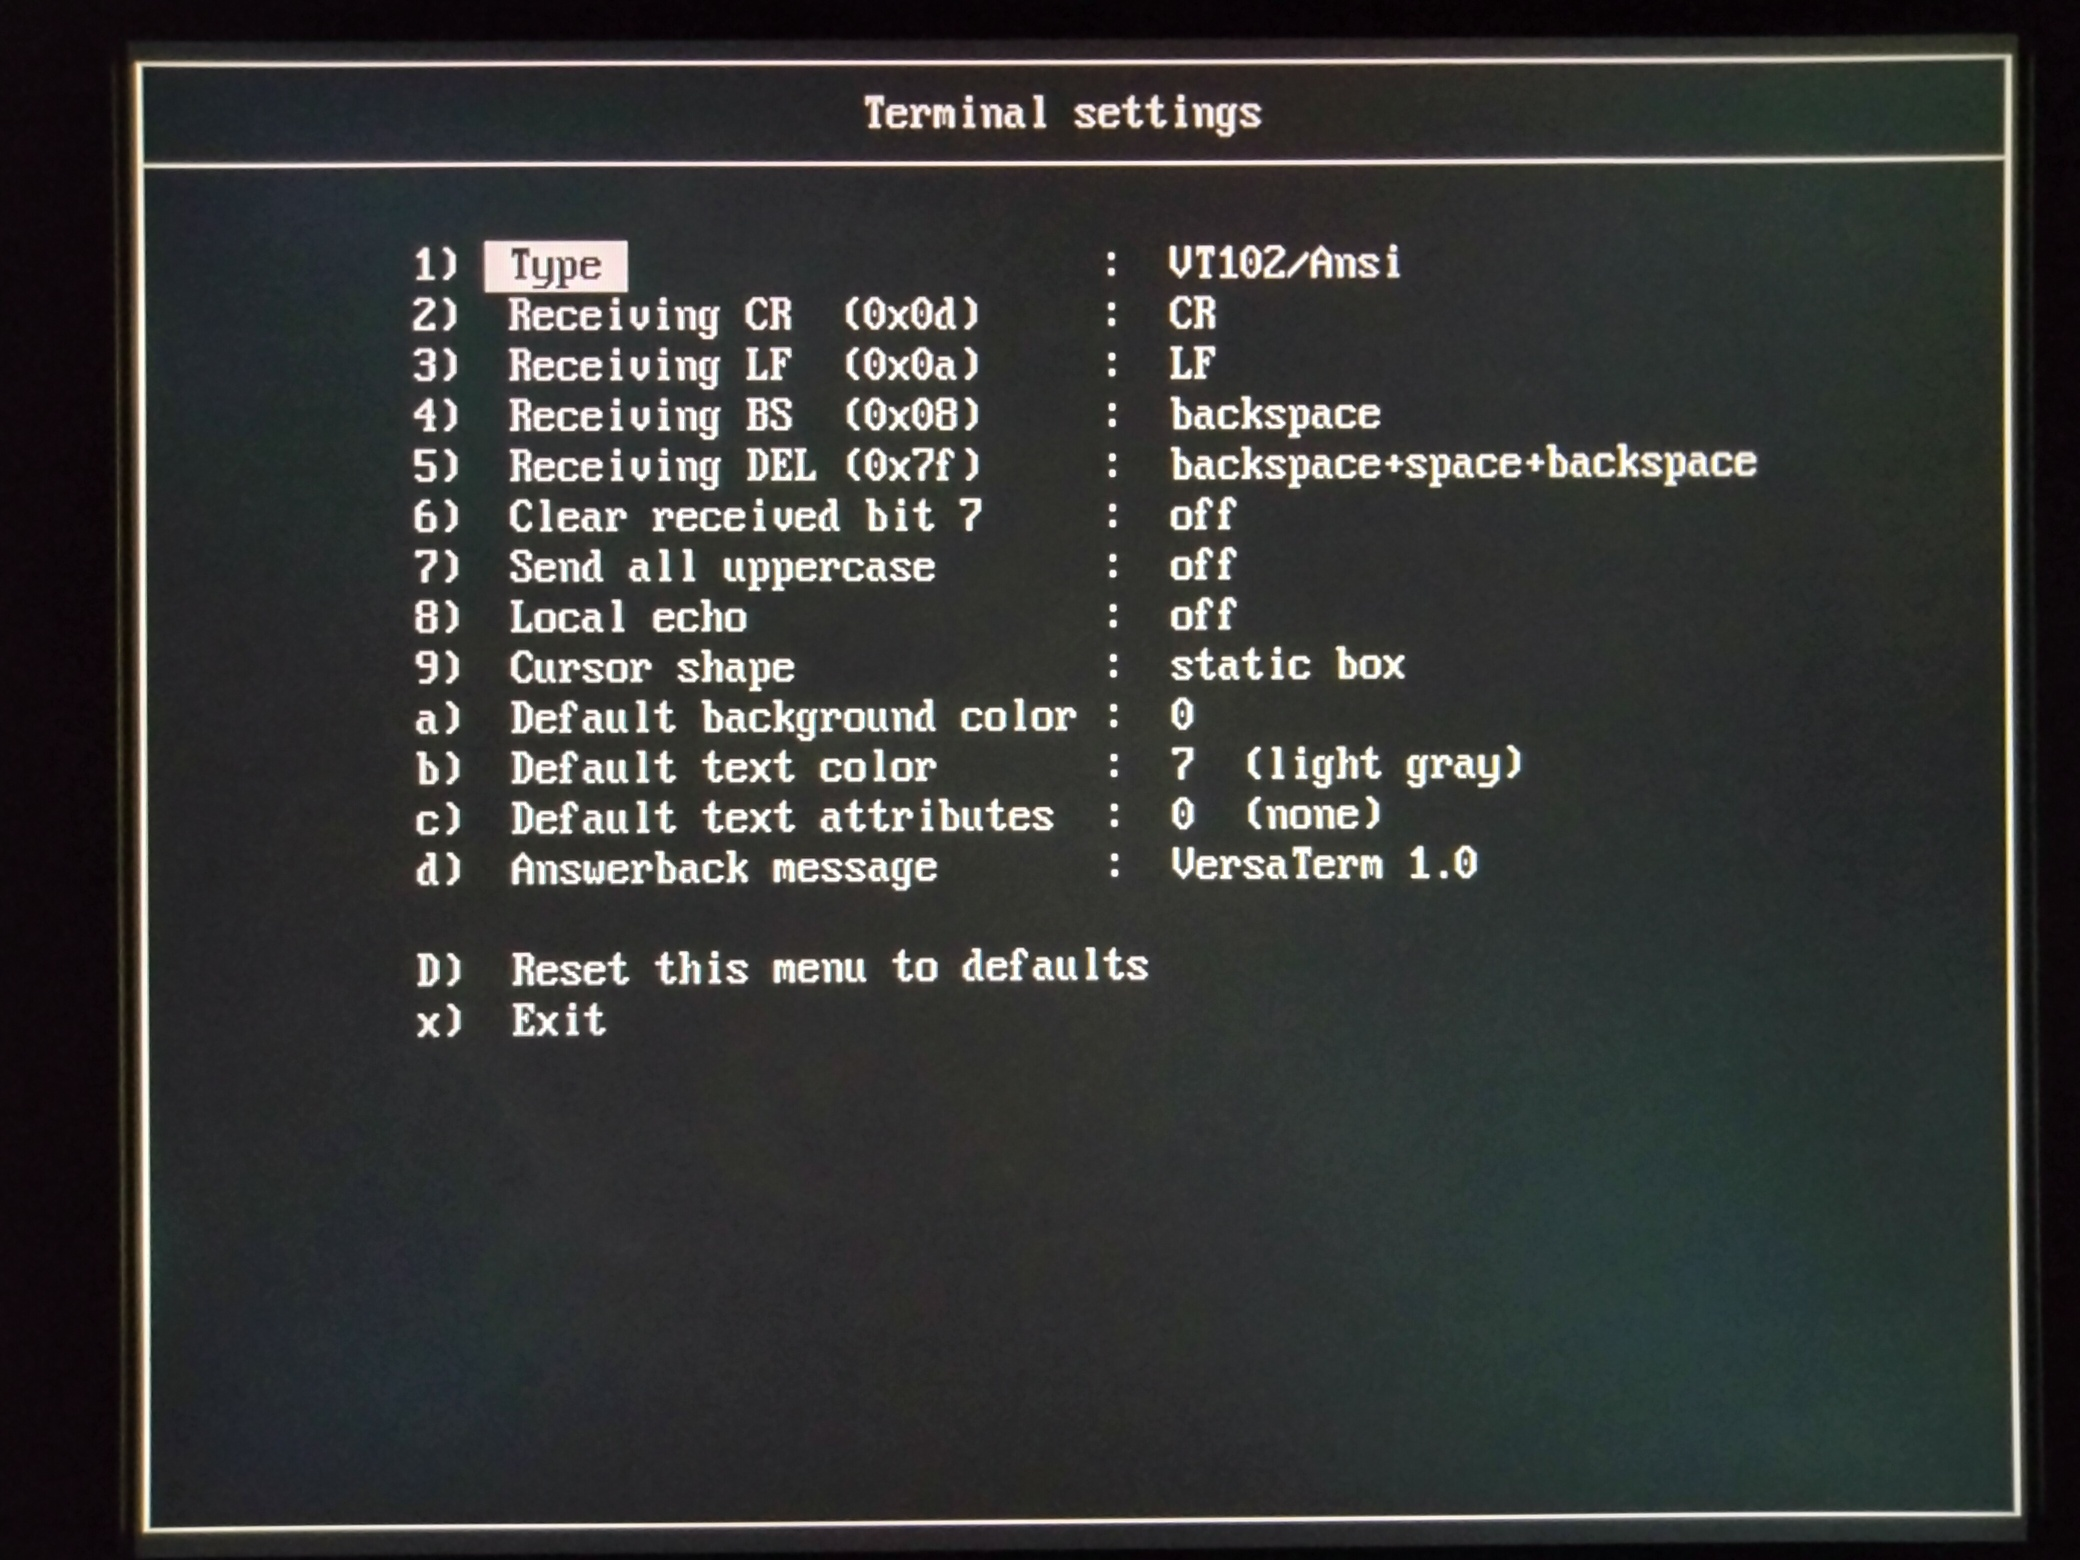
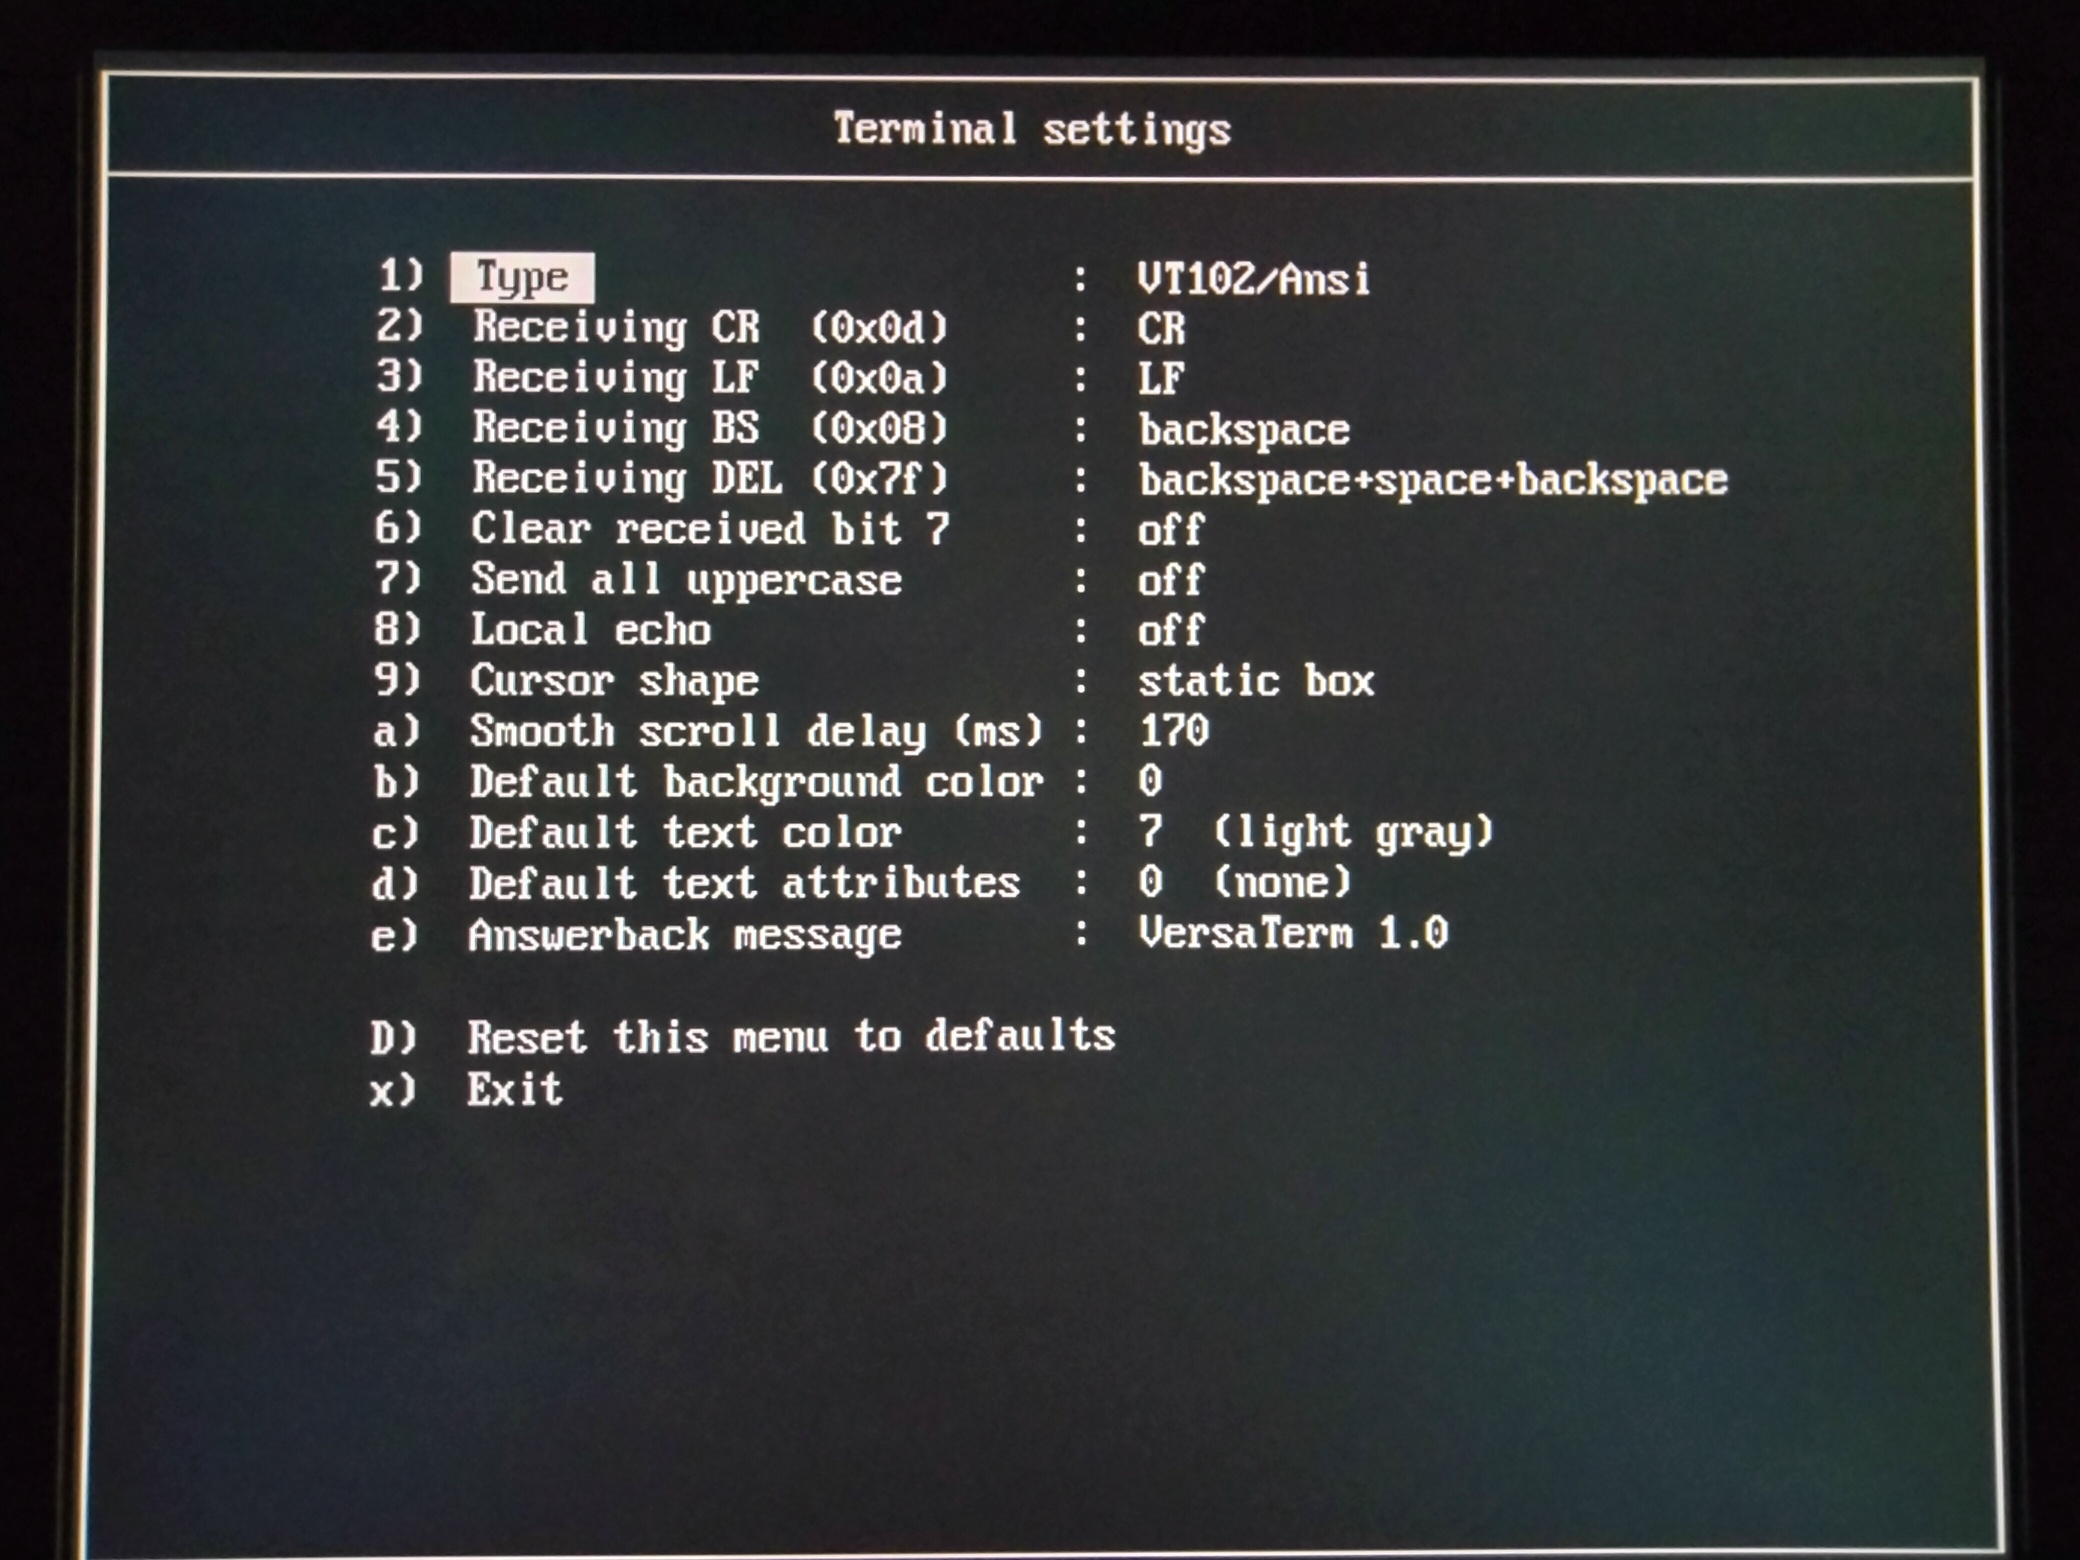
Added setting for smooth scroll delay

Changed region(s): [[0.1562, 0.1538, 0.8438, 0.7077], [0.0312, 0.0, 1.0, 1.0]]

diff --git a/software/src/config.c b/software/src/config.c
@@ -159,7 +159,8 @@ struct SettingsStruct
     uint16_t bgcolor;
     uint16_t attr;
     char     answerback[50];
-    uint16_t reserved[32];
+    uint16_t scrolldelay;
+    uint16_t reserved[31];
   } Terminal;
 
   struct KeyboardStruct
@@ -370,10 +371,11 @@ static const struct MenuItemStruct __in_flash(".configmenus") terminalMenu[] =
      {'7', "Send all uppercase",       0, NULL, 0, NULL, &settings.Terminal.uppercase,  0, 1, 1, 0, {"off", "on"}},
      {'8', "Local echo",               0, NULL, 0, NULL, &settings.Terminal.echo,       0, 1, 1, 0, {"off", "on"}},
      {'9', "Cursor shape",             0, NULL, 0, NULL, &settings.Terminal.cursor,     0, 2, 1, 0, {"static box", "blinking box", "underline"}},
-     {'a', "Default background color", 0, NULL, 0, color16_fn, &settings.Terminal.bgcolor, 0, 15, 1,  0},
-     {'b', "Default text color",       0, NULL, 0, color16_fn, &settings.Terminal.fgcolor, 0, 15, 1,  7},
-     {'c', "Default text attributes",  0, NULL, 0, attr_fn,    &settings.Terminal.attr,    0, 15, 1,  0},
-     {'d', "Answerback message",       0, NULL, 0, answerback_fn}};
+     {'a', "Smooth scroll delay (ms)", 0, NULL, 0, NULL, &settings.Terminal.scrolldelay, 0, 1000, 10, 170},
+     {'b', "Default background color", 0, NULL, 0, color16_fn, &settings.Terminal.bgcolor, 0, 15, 1,  0},
+     {'c', "Default text color",       0, NULL, 0, color16_fn, &settings.Terminal.fgcolor, 0, 15, 1,  7},
+     {'d', "Default text attributes",  0, NULL, 0, attr_fn,    &settings.Terminal.attr,    0, 15, 1,  0},
+     {'e', "Answerback message",       0, NULL, 0, answerback_fn}};
 
 
 
@@ -608,6 +610,11 @@ bool config_get_terminal_clearBit7()
 bool config_get_terminal_uppercase()
 {
   return settings.Terminal.uppercase!=0;
+}
+
+uint16_t config_get_terminal_scrolldelay()
+{
+  return settings.Terminal.scrolldelay;
 }
 
 uint8_t config_get_terminal_default_fg()

diff --git a/software/src/terminal.c b/software/src/terminal.c
@@ -327,8 +327,8 @@ static void INFLASHFUN terminal_process_command(char start_char, char final_char
               terminal_clear_screen();
               break;
 
-            case 4: // smooth scroll
-              framebuf_set_scroll_delay(enabled ? (1000/6) : 0);
+            case 4: // enable smooth scrolling (emulated via scroll delay)
+              framebuf_set_scroll_delay(enabled ? config_get_terminal_scrolldelay() : 0);
               break;
               
             case 5: // invert screen

diff --git a/software/src/config.h b/software/src/config.h
@@ -47,6 +47,7 @@ uint8_t config_get_terminal_bs();
 uint8_t config_get_terminal_del();
 bool    config_get_terminal_clearBit7();
 bool    config_get_terminal_uppercase();
+uint16_t config_get_terminal_scrolldelay();
 uint8_t config_get_terminal_default_fg();
 uint8_t config_get_terminal_default_bg();
 uint8_t config_get_terminal_default_attr();
